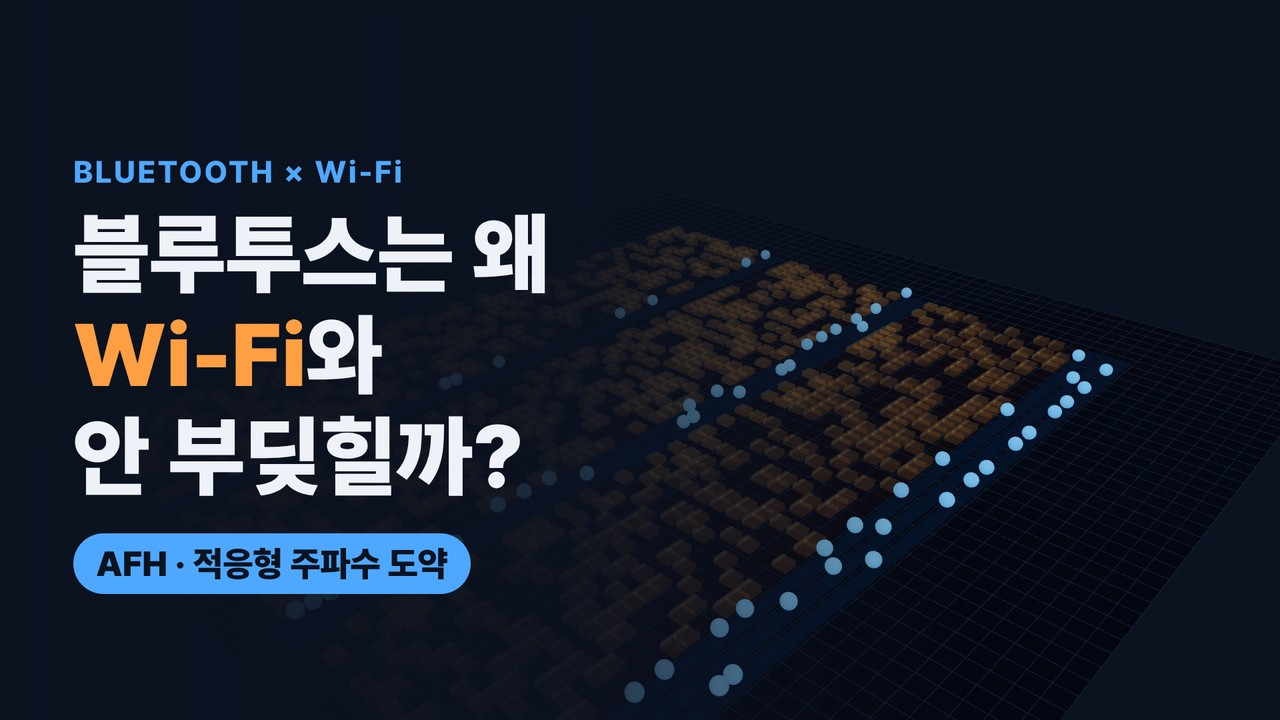
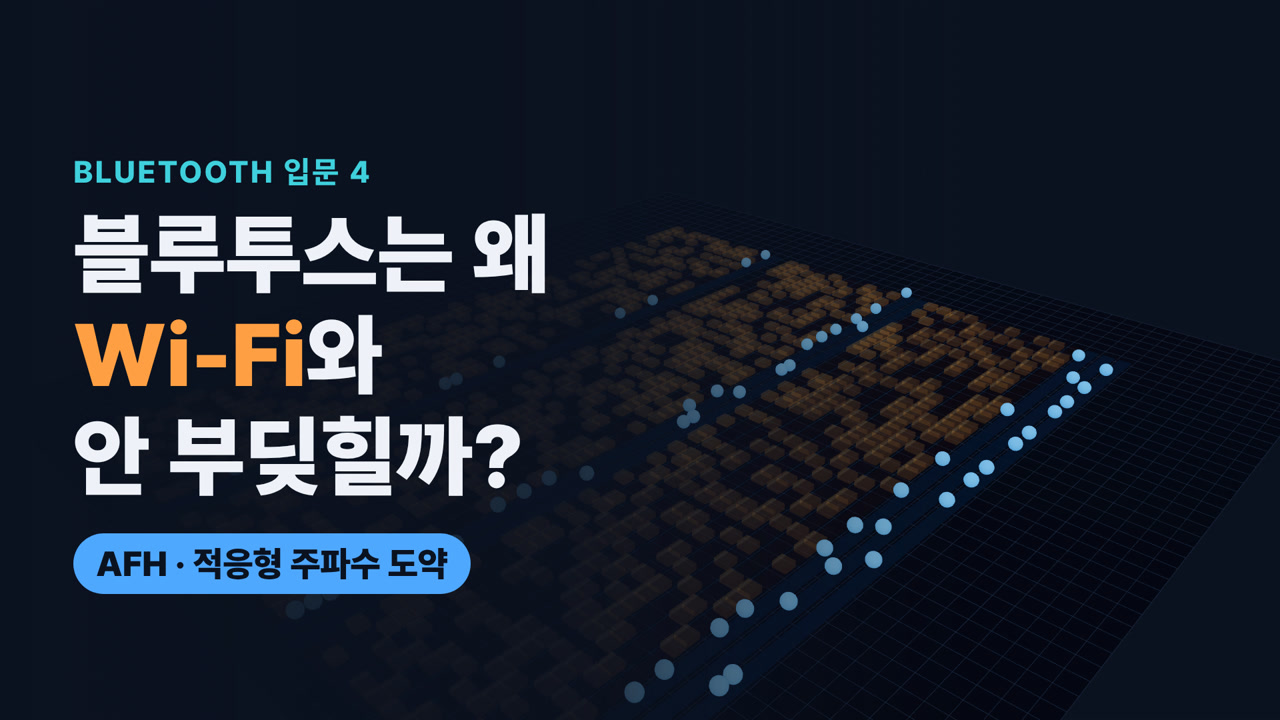
입문 3·4편 썸네일에 '입문 N' 표기

diff --git a/video/src/afh/Thumbnail.tsx b/video/src/afh/Thumbnail.tsx
@@ -15,7 +15,7 @@ export const AfhThumbnail: React.FC = () => {
       <Waterfall3D cam={{ pos: [70, 55, 120], look: [-8, 0, 40], fov: 40 }} events={AFH} shown={60} blocked={BLOCKED} laneOff={1} />
       <AbsoluteFill style={{ background: "linear-gradient(90deg, rgba(11,18,32,.96) 0%, rgba(11,18,32,.85) 45%, rgba(11,18,32,0) 75%)" }} />
       <div style={{ position: "absolute", left: 110, top: 230, fontFamily: FONT }}>
-        <div style={{ color: C.accent, fontSize: 46, fontWeight: 800, letterSpacing: 3 }}>BLUETOOTH × Wi-Fi</div>
+        <div style={{ color: C.accent2, fontSize: 46, fontWeight: 800, letterSpacing: 3 }}>BLUETOOTH 입문 4</div>
         <div style={{ color: C.text, fontSize: 132, fontWeight: 900, lineHeight: 1.15, marginTop: 20 }}>
           블루투스는 왜<br />
           <span style={{ color: C.warn }}>Wi-Fi</span>와<br />

diff --git a/video/src/discover/Thumbnail.tsx b/video/src/discover/Thumbnail.tsx
@@ -11,7 +11,7 @@ export const DiscoverThumbnail: React.FC = () => {
       <Stage3D cam={{ pos: [-30, 38, 108], look: [-30, 2, 0], fov: 40 }} wifi={[0, 0, 0]} pillars={1} color={() => "#7f93b3"} adv={1} advGlow={1} dim={0.6} />
       <AbsoluteFill style={{ background: "linear-gradient(90deg, rgba(11,18,32,.96) 0%, rgba(11,18,32,.8) 40%, rgba(11,18,32,0) 56%)" }} />
       <div style={{ position: "absolute", left: 110, top: 230, fontFamily: FONT }}>
-        <div style={{ color: C.accent2, fontSize: 46, fontWeight: 800, letterSpacing: 3 }}>BLUETOOTH LE</div>
+        <div style={{ color: C.accent2, fontSize: 46, fontWeight: 800, letterSpacing: 3 }}>BLUETOOTH 입문 3</div>
         <div style={{ color: C.text, fontSize: 128, fontWeight: 900, lineHeight: 1.15, marginTop: 20 }}>
           처음 보는<br />
           두 기기는<br />
